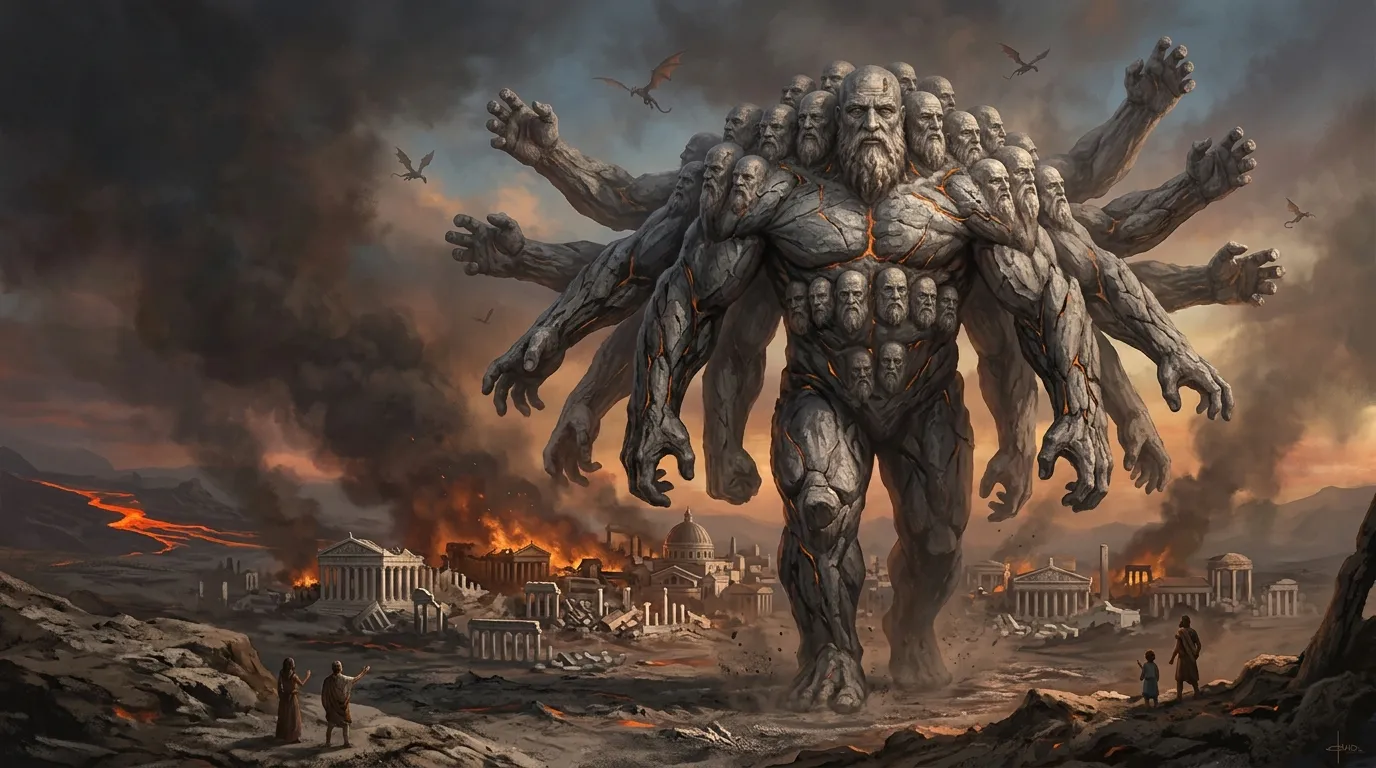
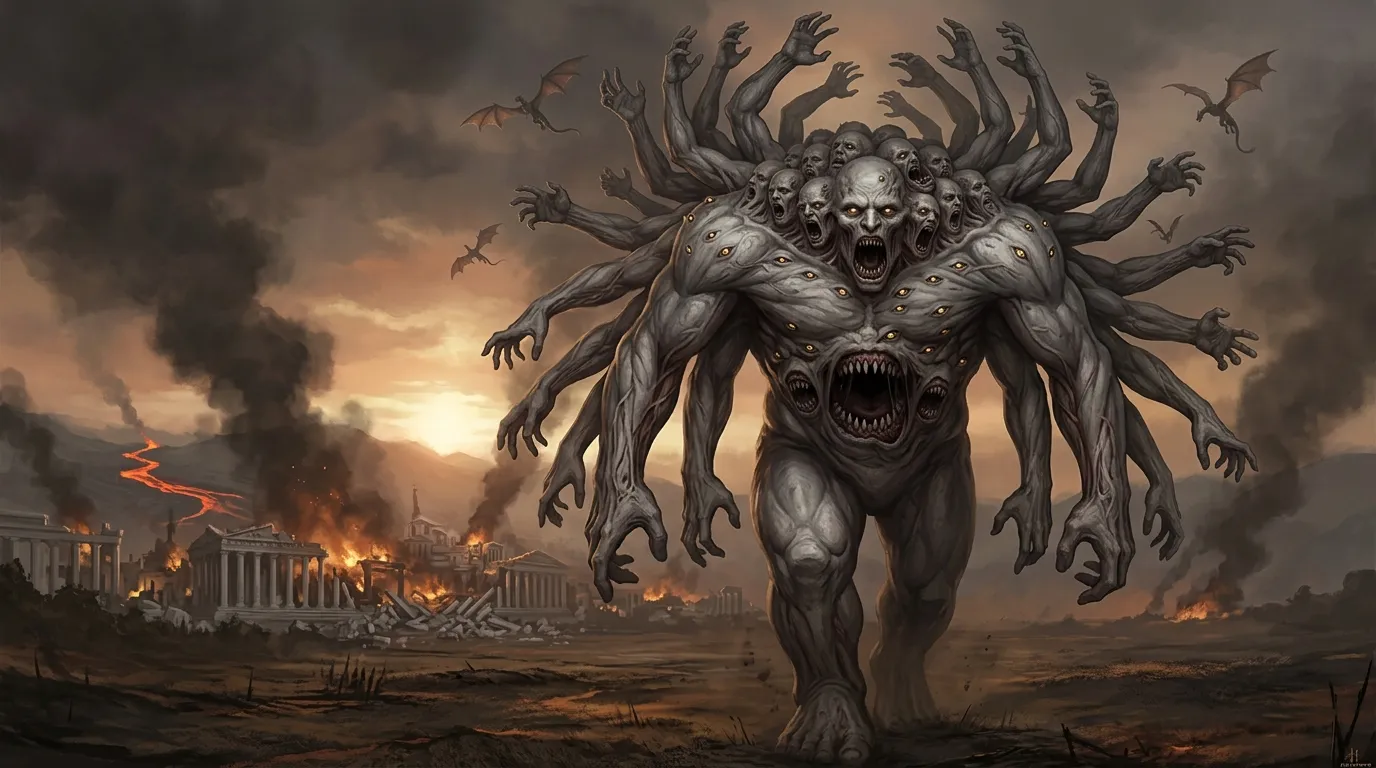
update images

diff --git a/content/02-People/NPCs/Tytani/Kentimane.md b/content/02-People/NPCs/Tytani/Kentimane.md
@@ -1,5 +1,6 @@
 ---
 title: Kentimane
+image_prompt: colossal mythical Hecatoncheires titan, monstrous giant, hulking grotesque humanoid build, massive bulbous upper torso formed from fused heads, fifty gaping dark maws with sharp teeth, dozens of small glowing eyes embedded across the chest and visage, hundreds of intertwined muscular arms forming multi-limbed shoulders and massive limbs, clusters of reaching hands and elongated jointed fingers cascading down, pale ash-grey rubbery skin, weathered stony vascular texture, exposed muscle fibers, primordial eldritch titan aesthetic, dark fantasy creature design
 ---
 
 ![Placeholder](../../../assets/placeholder.webp)
